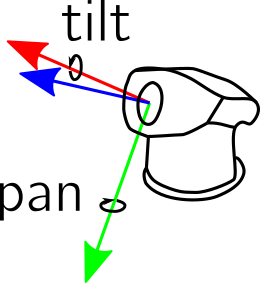
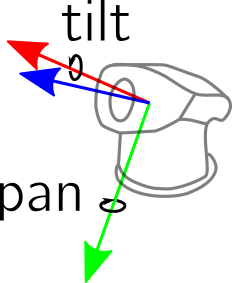
Describe naming conventions

Changed region(s): [[0.0, 0.0, 1.0, 1.0]]

diff --git a/doc/source/transformation_ambiguities.rst b/doc/source/transformation_ambiguities.rst
@@ -334,25 +334,45 @@ Here is a comparison between various conventions of concatenation.
     for backward compatibility. When in doubt, read the docstring, which
     clearly states that they make intrinsic rotations.
 
-------------------
-Naming Conventions
-------------------
+----------------------------
+Naming and Frame Conventions
+----------------------------
 
+In addition to transformation and rotation conventions, there are a lot of
+different naming and frame conventions. Here are some examples.
 
-.. image:: _static/conventions_ship.png
+.. figure:: _static/conventions_ship.png
    :alt: Ship conventions
    :align: center
+   :width: 50%
 
+   For ships we can use the following convention for the body frame: the x-axis
+   is called surge, the y-axis sway, and the z-axis heave. The origin of the
+   frame is the center of gravity. For the orientation, the names yaw, pitch,
+   and roll are used. Sometimes the body frame is rotated by 180 degrees around
+   the x-axis, so that the y-axis points to the right side and the z-axis down.
 
-.. image:: _static/conventions_plane.png
+.. figure:: _static/conventions_plane.png
    :alt: Aircraft conventions
    :align: center
+   :width: 50%
+
+   Aircrafts sometimes use the following naming conventions for intrinsic
+   rotations around the z-, y'-, and x''-axis. The rotation about the z-axis
+   is called heading, rotation about the y'-axis is called elevation, and the
+   rotation about the x''-axis is called bank.
 
 
-.. image:: _static/conventions_camera.png
+.. figure:: _static/conventions_camera.png
    :alt: Camera conventions
    :align: center
 
+   Cameras or similar sensors are sometimes mounted on pan/tilt units.
+   Typically, first the pan joint rotates the camera about an axis parallel to
+   the y-axis of the camera and the tilt joint rotates the camera about an
+   axis parallel to the x-axis of the camera. When there the axes of rotation
+   and of the camera are not perfectly aligned, the camera will also be
+   translated by the rotations.
 
 -----------------------------
 Conventions of Other Software
